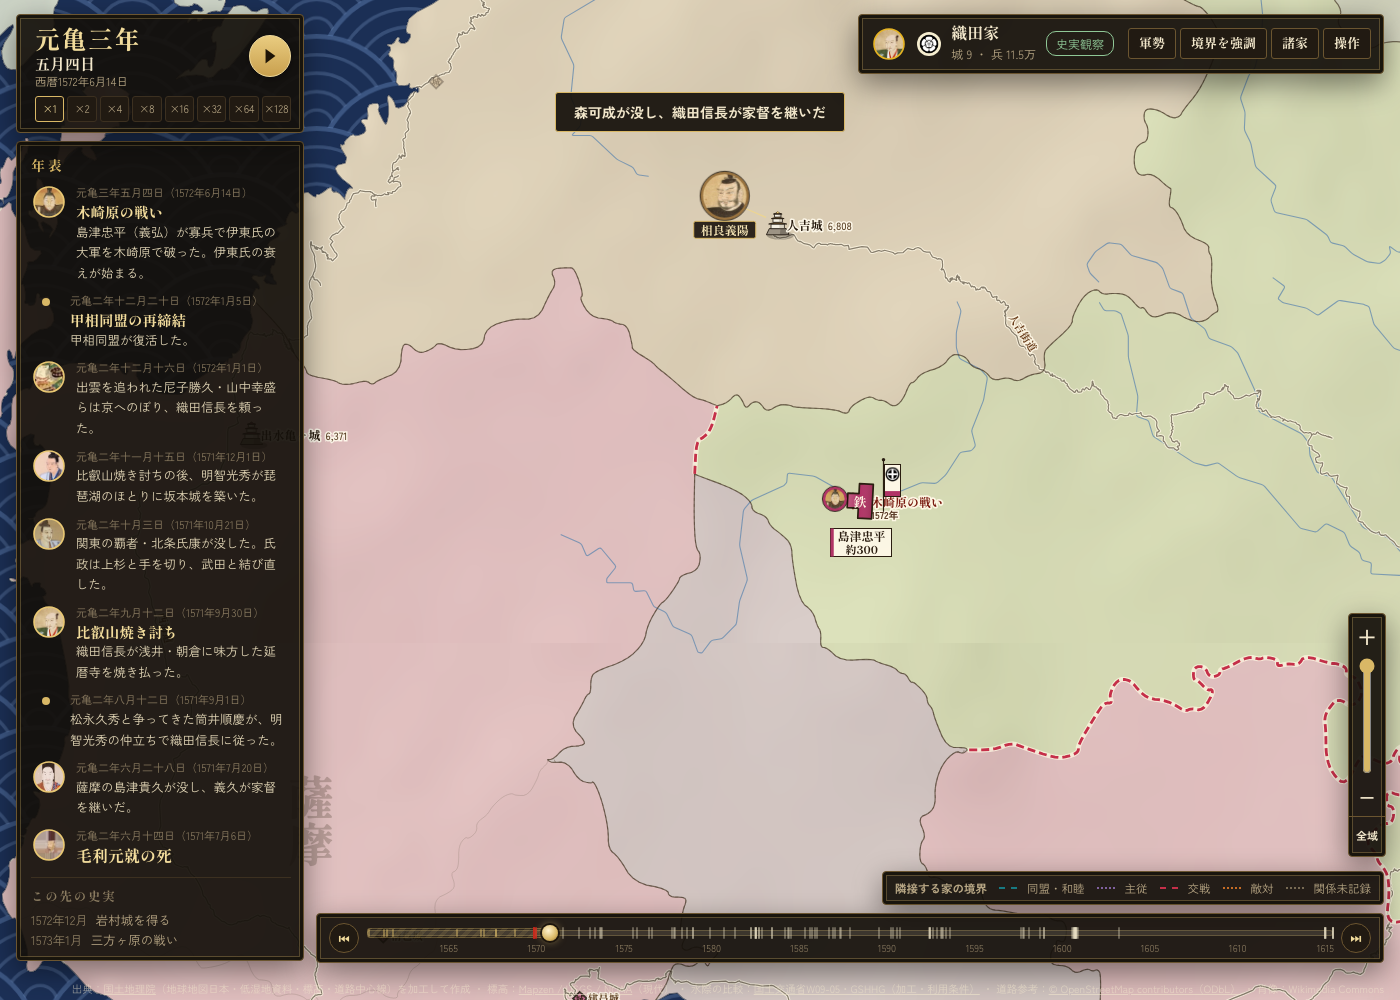
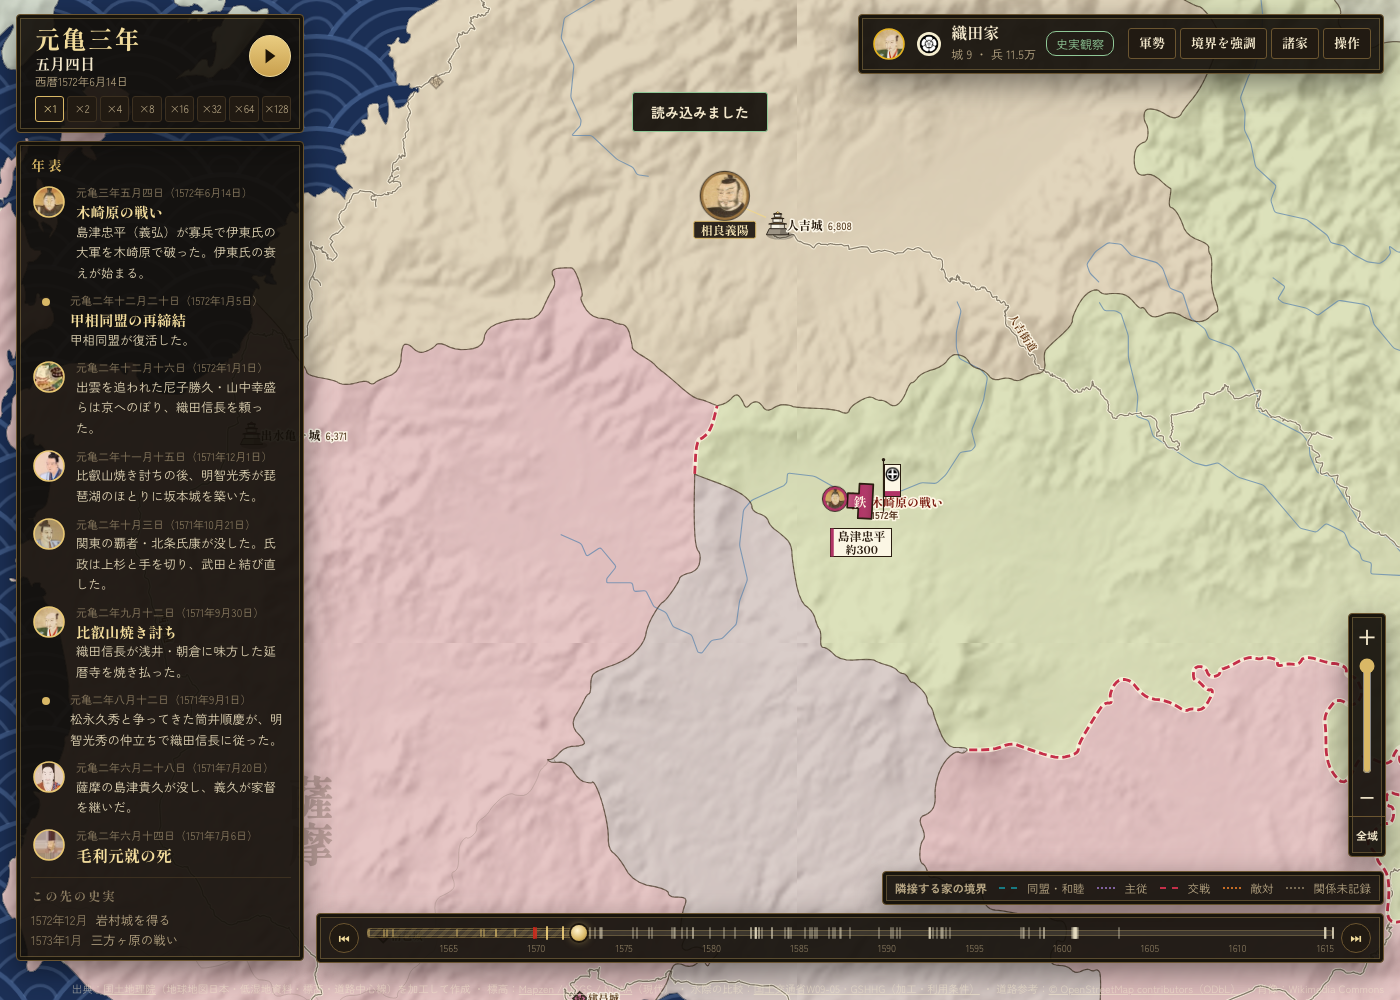
Verify mid-march saving through the UI
専用Chromeの保存・読込ボタンを通し、木崎原の日内0.1の街道上位置が日付とともに一致することを確認した。
通常のプレイ用ブラウザには触れず、検査結果と画像を更新する。

diff --git a/docs/reports/KIZAKIBARU_LOCAL_MARCH_REVIEW.md b/docs/reports/KIZAKIBARU_LOCAL_MARCH_REVIEW.md
@@ -35,3 +35,5 @@
 専用Chromeの証拠は `data/verification/kizakibaru-local-worktree/`。共有サーバーに対して作業ツリーの起動HTMLと変更JSだけを専用ブラウザ内で差し替え、位置の5時点・状態切替・軍勢一覧の出発地・合戦図を検査する。配信元自体の反映と区別する。共有版へ統合後、差替えなしの検査を別に保存する。
 
 最終の専用Chrome検査は成功し、地図・軍勢一覧・合戦図の3画像を目視確認した。日内5時点で移動から滞陣への切替を確認、例外0。全1560〜1615年の111合戦通知も再観測し、通知欠落0、登録予定より前の通知0。これは史実日程の全件立証とは別。
+
+保存の実ボタン検査も追加した。専用Chrome内で日内0.1の行軍途中を保存枠1へ書き込み、日内0.7へ進めてから同枠を読込。日付・日内0.1・街道上の座標が全て一致し、日内位置の復元を確認した。通常利用中のブラウザ保存は操作していない。結果JSONの `saveRoundtrip` を参照。
